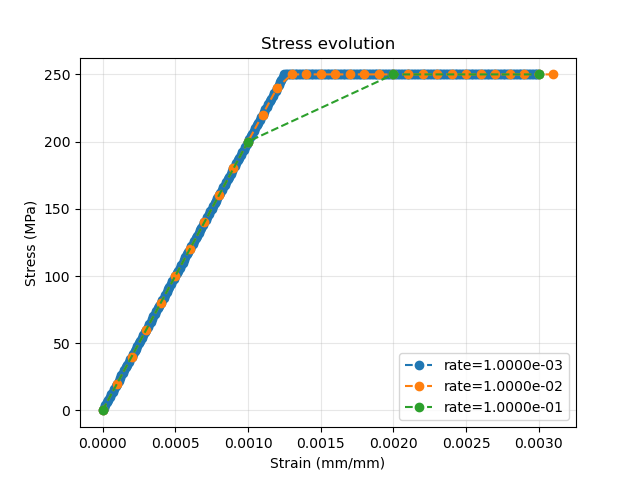
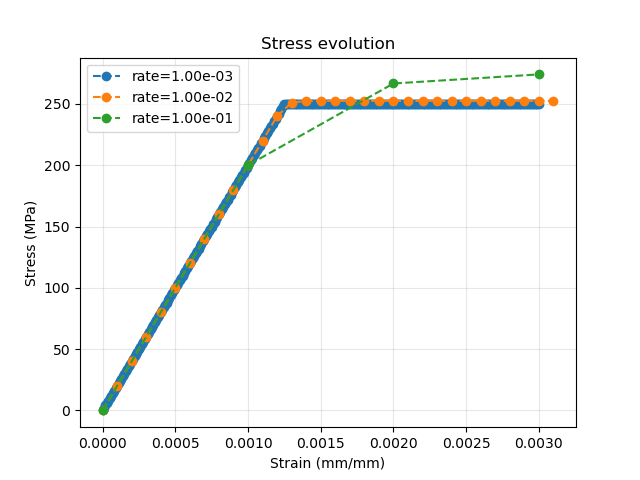
updated week03 creep test, rate sensitivity and relaxation test

diff --git a/code/week03/viscoplasticity_1d_perzyna.py b/code/week03/viscoplasticity_1d_perzyna.py
@@ -9,9 +9,9 @@ def return_mapping_viscoplasticity(eps_n, d_eps, dt, eps_vp_n, E, sigma_y, eta, 
     d_eps : Strain increment
     dt : Time increment [s]
     eps_vp_n : Viscoplastic strain at step n
-    E : Young's modulus [Pa]
-    sigma_y : Yield stress [Pa]
-    eta : Viscosity [Pa·s]
+    E : Young's modulus [MPa]
+    sigma_y : Yield stress [MPa]
+    eta : Viscosity [MPa·s]
     n : Rate sensitivity exponent (default=1)
     
     Returns:
@@ -19,9 +19,7 @@ def return_mapping_viscoplasticity(eps_n, d_eps, dt, eps_vp_n, E, sigma_y, eta, 
     sigma : Stress [Pa]
     eps_vp : Viscoplastic strain
     """
-    # Define a lambda for macaulay brackets (ramp function)
-    # TODO: remove if neaded  - macaulay = lambda x : (x + np.abs(x))/2
-
+    
     # Compute next step straina and trial stress
     eps_n_1 = eps_n + d_eps
 
@@ -33,13 +31,13 @@ def return_mapping_viscoplasticity(eps_n, d_eps, dt, eps_vp_n, E, sigma_y, eta, 
     if f_trial < 0: # Elastic step
         return sigma_trial, eps_vp_n
     else: # Plastic step
-        # Compute plastic multiplier
-        d_lambda = (dt / eta) * (f_trial / sigma_y)**n 
-        d_lambda /= (1 + dt*E / (eta * sigma_y**n) * f_trial**(n - 1))
+        # Compute plastic multiplier, implemented the variable n
+        # version to test other values of n eventually
+        numerator = (dt / eta) * (f_trial / sigma_y)**n 
+        denominator=  1 + (dt*E) / (eta * sigma_y**n) * f_trial**(n - 1)
         
-        d_lambda2 = (dt / eta) * f_trial / (1 + dt*E/eta)
-        print(f"dlambda 1: {d_lambda:.2e}, 2:{d_lambda2:.2e}")
-        
+        d_lambda = numerator/denominator
+                
         # Update viscoplastic strain
         eps_vp_n += d_lambda * np.sign(sigma_trial)
         
@@ -52,14 +50,18 @@ def rate_sensitivity():
     '''
     Function to evaluate the strain rate sensitivity
     '''
+    print("*******************************************************************")
+    print("                       RATE SENSITIVITY                            ")
+    print("                         output data                               ")
+    print("*******************************************************************")
     # Material properties
     E = 200e3                           # MPa - Young's modulus
     SIGMA_Y0 = 250                      # MPa - Yield stress
             
    
     # (3.2.1) Constant visosity, variable strain rate
-    DT = 0.01                           # s -  constant time step
-    ETA = 1e-6                          # Pa*s - Viscosity
+    DT = 1e-2                           # s -  constant time step
+    ETA = 1                             # MPa*s - Viscosity
        
     # Analysis parameters
     strain_rates = [1e-3, 1e-2, 1e-1]   # mm/mm*s
@@ -74,7 +76,7 @@ def rate_sensitivity():
         # Initialize stresses and strains
         eps_n = 0
         eps_vp_n = 0
-        d_eps = strain_rate*DT
+        d_eps = strain_rate*DT # Will be constant through the test
         
         # Initialize history variable
         stress_history = [0.0]
@@ -83,6 +85,7 @@ def rate_sensitivity():
 
         # Loop untill max strain is reached
         while eps_n < MAX_EPS:
+                            
             stress, eps_vp_n = return_mapping_viscoplasticity(eps_n, d_eps, DT, eps_vp_n, E, SIGMA_Y0, ETA)
             
             # Update variables and append history variables
@@ -97,7 +100,7 @@ def rate_sensitivity():
         eps_vp_rate_i.append(eps_vp_history)
         
     # * Post processing
-        # Plot all stress strain curves (f(H))
+    # Plot all stress strain curves (f(H))
     fig, ax = plt.subplots()
     for strain, stress, strain_rate in zip(eps_rate_i, stress_rate_i, strain_rates):
         ax.plot(strain, stress,ls = '--', marker = 'o', label = f"rate={strain_rate:.2e}")
@@ -110,25 +113,180 @@ def rate_sensitivity():
     ax.legend()
     plt.show()
     fig.savefig("week03_rate_sensitivity.png")
-
-            
-            
-def creep_test():
-    # (3.2.2) Creep test
-    pass
     
-def relaxation_test():
-    # (3.2.3) Relaxation test
+    # Maximum stress
+    
+    for strain_rate, stress in zip(strain_rates, stress_rate_i):
+        print(f"Rate: {strain_rate:.2e} 1/s, sigma_max: {np.max(stress)} MPa")
+   
+def creep_test():
+    '''
+    Function to evaluate the creep test: Constant stress of 260 MPa
+    
+    Material is loaded to 260 MPa at t=0. Stress is plot over time
+    '''
+    print("*******************************************************************")
+    print("                          CREEP TEST                               ")
+    print("                         output data                               ")
+    print("*******************************************************************")
+    
+    # Material properties (ref: 3.2.1)
+    E = 200e3                           # MPa - Young's modulus
+    SIGMA_Y0 = 250                      # MPa - Yield stress
+    ETA = 4                             # MPa*s - Viscosity
+        
+    # Analysis parameters
+    T_MAX = 100                         # s - End time
+    DT = 1                              # s -  constant time step
+    STRESS_INIT = 260                   # MPa - Initial constant stress
+    
+    # Initialize stresses and strains
+    eps_n = 0
+    eps_vp_n = 0
+    d_eps =  STRESS_INIT/E              # Only at first time step in this case
+    print(f"Initial stress: {STRESS_INIT} MPa")
+    print(f"Initial strain: {d_eps:.3e}")
+    print(f"Test E*deps: {E*d_eps} MPa")
+    
+    
+    # Initialize history variable
+    stress_history = [0.0]
+    eps_history = [0.0]
+    eps_vp_history = [0.0]
+    time_history = [0.0]
+
+    i = 0   # Counter for initial time step
+    ti = 0  # Current time
+    # Loop untill max strain is reached
+    while ti < T_MAX:
+                    
+        stress, eps_vp_n = return_mapping_viscoplasticity(eps_n, d_eps, DT, eps_vp_n, E, SIGMA_Y0, ETA)
+        
+        # Update variables and append history variables
+        eps_n += d_eps # needs to be updated after the integration
+        eps_history.append(eps_n)
+        stress_history.append(stress)
+        eps_vp_history.append(eps_vp_n)
+        time_history.append(ti)
+        
+        # Update d_eps for next step
+        d_eps = STRESS_INIT/E + eps_vp_n - eps_n # Compute equivalent required strain to keep stress at constant value
+        
+        i += 1  # Update counter
+        ti += DT # Update time counter
+        
+    # * Post processing
+    ## Stress vs time
+    fig, ax = plt.subplots()
+    ax.plot(time_history, stress_history,ls = '--', marker = 'o')
+
+    # Axis labels and styling
+    ax.set_xlabel("Time (s)")
+    ax.set_ylabel("Stress (MPa)")
+    ax.set_title("Stress evolution over time in creep test")
+    ax.grid(alpha = 0.3)
+    plt.show()
+    
+    print(f"Last stress: {stress_history[-1]} MPa")
+    
+    ## Strain rate (creep rate) vs time
+    creep_rate = np.gradient(eps_history, time_history)
+    
+    fig2, ax2 = plt.subplots()
+    ax2.plot(time_history, creep_rate,ls = '--', marker = 'o')
+    
+    # Axis labels and styling
+    ax2.set_xlabel("Time (s)")
+    ax2.set_ylabel("Strain Rate (mm/mm)")
+    ax2.set_title("Creep rate")
+    ax2.grid(alpha = 0.3)
+    plt.show()
+    fig2.savefig("week03_creep.png")
+    
+    plt.show()
     pass
+            
+def relaxation_test():
+    '''
+    Function to evaluate the relaxation test: large initial strain
+    
+    init strain = 0.0015 mm/mm. Plot stress over time
+    '''
+    print("*******************************************************************")
+    print("                    RELAXATION TEST                                ")
+    print("                         output data                               ")
+    print("*******************************************************************")
+    
+    # Material properties (ref: 3.2.1)
+    E = 200e3                               # MPa - Young's modulus
+    SIGMA_Y0 = 250                          # MPa - Yield stress
+    ETA = 1                                 # MPa*s - Viscosity
+        
+    # Analysis parameters
+    T_MAX = 0.1                             # s - End time
+    DT = 1e-3                               # s -  constant time step
+  
+    # Initialize stresses and strains
+    eps_n = 0
+    eps_vp_n = 0
+    d_eps =  0.0015                         # Only at firs time step in this case
+
+    print(f"Initial strain: {d_eps:.3e}")
+    print(f"Test E*deps (Initial stress): {E*d_eps} MPa")
+    
+    
+    # Initialize history variable
+    stress_history = [0.0]
+    eps_history = [0.0]
+    eps_vp_history = [0.0]
+    time_history = [0.0]
+
+    i = 0   # Counter for initial time step
+    ti = 0  # Current time
+    # Loop untill max strain is reached
+    while ti < T_MAX:
+        
+        if i > 0:
+            d_eps = 0 # Change rate of change in strain to 0 to mimic initial stress only
+            
+        stress, eps_vp_n = return_mapping_viscoplasticity(eps_n, d_eps, DT, eps_vp_n, E, SIGMA_Y0, ETA)
+        
+        # Update variables and append history variables
+        eps_n += d_eps # needs to be updated after the integration
+        eps_history.append(eps_n)
+        stress_history.append(stress)
+        eps_vp_history.append(eps_vp_n)
+        time_history.append(ti)
+        
+        i += 1  # Update counter
+        ti += DT # Update time counter
+        
+    # * Post processing
+    ## Stress vs time
+    fig, ax = plt.subplots()
+    ax.plot(time_history, stress_history,ls = '--', marker = 'o')
+
+    # Axis labels and styling
+    ax.set_xlabel("Time (s)")
+    ax.set_ylabel("Stress (MPa)")
+    ax.set_title("Stress evolution over time in creep test")
+    ax.grid(alpha = 0.3)
+    plt.show()
+    fig.savefig("week03_creep.png")  
+    
+    # Last stress
+    last_stress = stress_history[-1]
+    print(f"Last stress: {last_stress:.16e} MPa")
+    print(f"yield - last stress: {SIGMA_Y0 - last_stress:.16e}")    
+    
     
 def viscosity_effect():
     # (3.2.4) Effect of viscosity
     pass
-
-        
+      
 
 if __name__ == '__main__':
-    rate_sensitivity()
+    # rate_sensitivity()
     creep_test()
-    relaxation_test()
-    viscosity_effect()
+    # relaxation_test()
+    # viscosity_effect()

diff --git a/journal/journal.md b/journal/journal.md
@@ -16,9 +16,14 @@ Interesting observations?
 Questions for next meeting?
 ```
 ## Week 3: 25-11-03 - 25-11-19
+### 2025-11-05:
+- Did some test with strain rate and creep test. I wasn't sure that the strain rate sensitivity test was right so I did the creep test. Creep test results made sense so Im pretty sure that the results for rate sensitivity are now sane. Maybe that the combination of rates not so high with a somewhat neutral viscosity make the results look not too different from a non viscoplastic material. There is a change in stress though that confirms this, but visually it is not so evident.
+
 ### 2025-11-04:
-- Started the coding assignement. Rate sensivity about 1.5hr
-- 
+- Started the coding assignement. Rate sensivity in about 2hr
+- The peak stress doesnt seem to high. Something might be off
+- Need to find a way to set constant stress
+
 ### 2025-11-03:
 - Started the reading assignement. About 1hr
 

diff --git a/README.md b/README.md
@@ -10,9 +10,9 @@
 - `literature/`: Papers and reading notes
 
 ## Current Status
-Week 1: Setting up, implementing 1D elastic bar FEM
-Week 2: Return mapping theory and implementation
-Week 3: Viscoplasticity and Perzyna constitutive model implementation
+- Week 1: Setting up, implementing 1D elastic bar FEM
+- Week 2: Return mapping theory and implementation
+- Week 3: Viscoplasticity and Perzyna constitutive model implementation
 
 ## Dependencies
 - Python 3.10+
